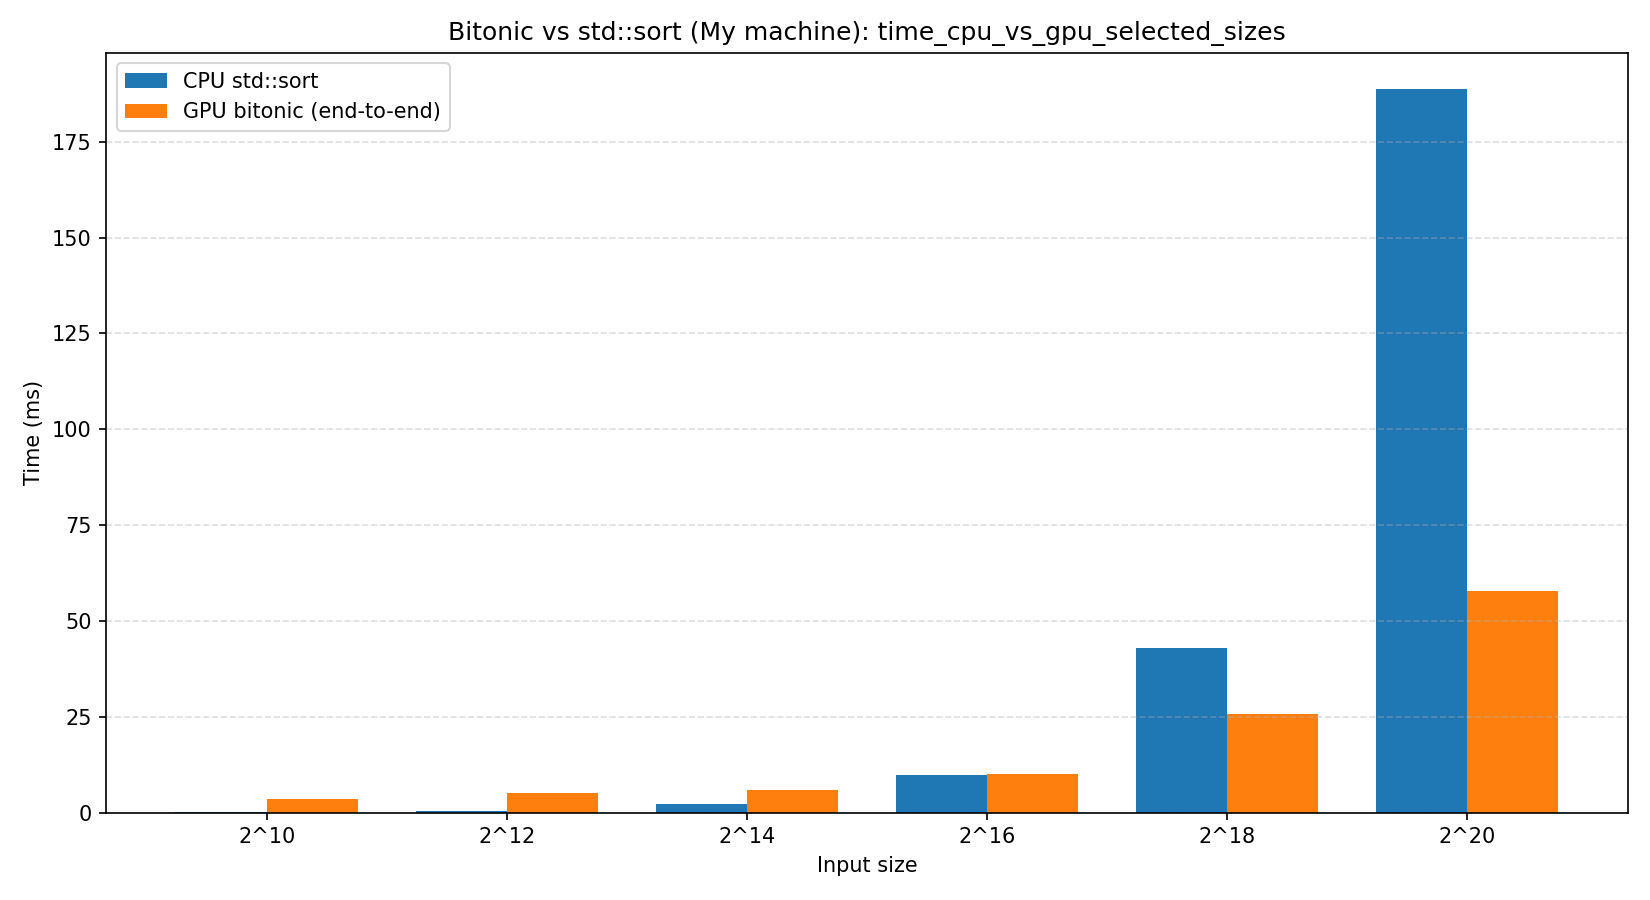
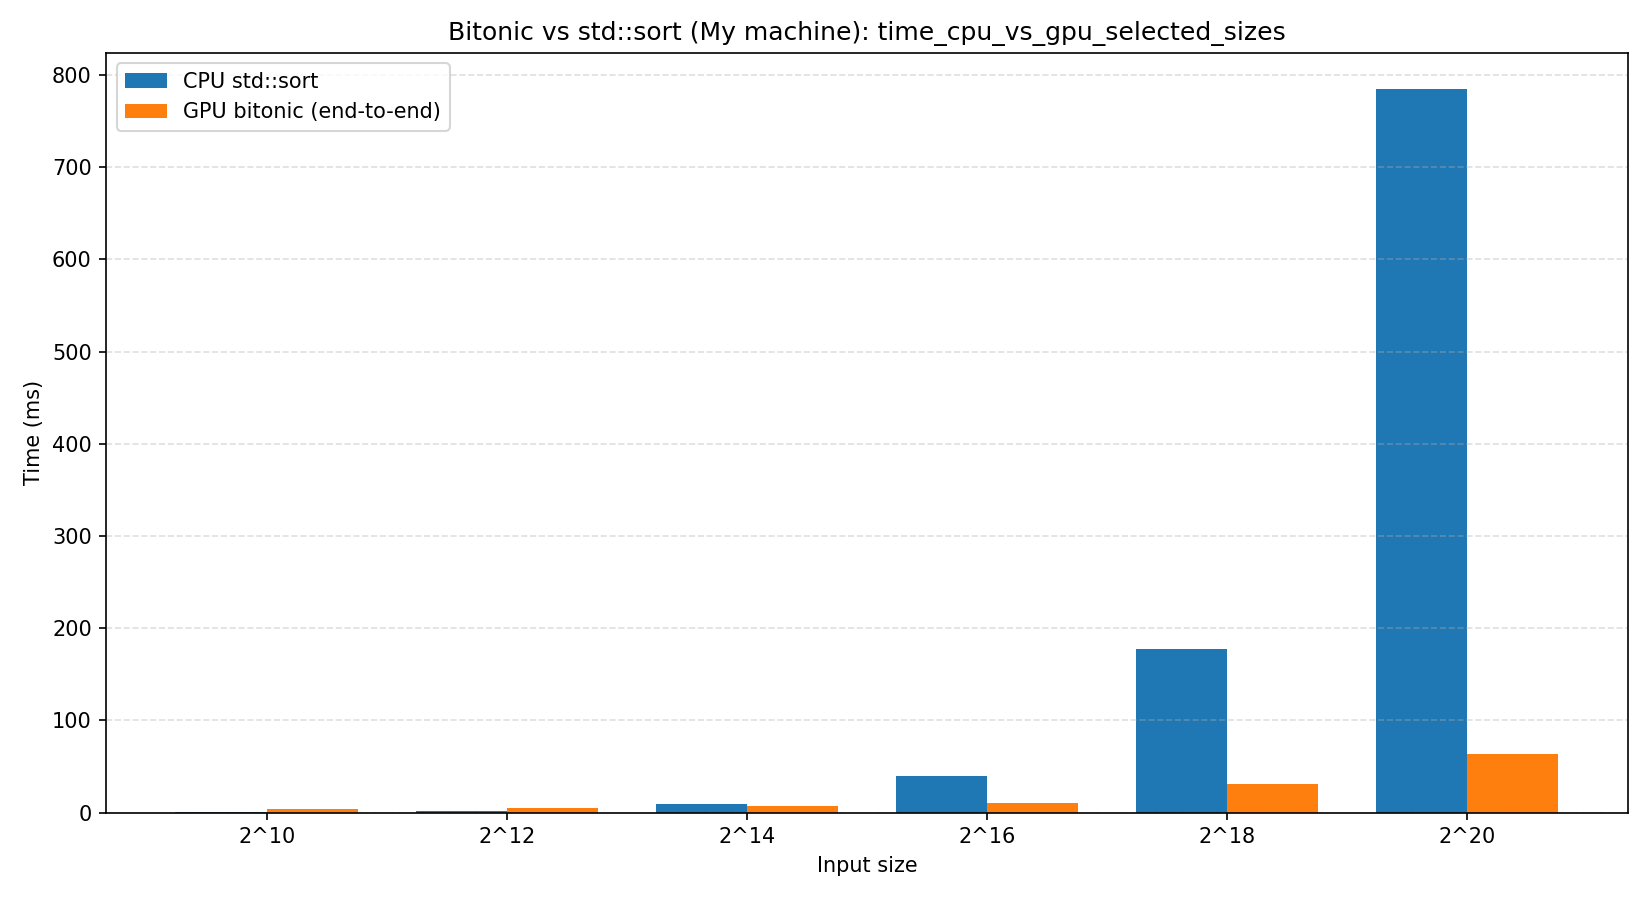
feat: add bitonic CPU vs GPU comparison pipeline

diff --git a/bench/run_bench.py b/bench/run_bench.py
@@ -15,6 +15,7 @@ REQUIRED_KEYS = {
     "warmup",
     "correct",
     "cpu_sort_ns",
+    "cpu_bitonic_ns",
     "gpu_end_to_end_ns",
     "gpu_kernel_ns",
     "gpu_h2d_ns",
@@ -26,16 +27,20 @@ REQUIRED_KEYS = {
 class AggregatedMetrics:
     size: int
     samples: int
-    cpu_mean_ns: float
-    cpu_median_ns: float
+    cpu_std_mean_ns: float
+    cpu_std_median_ns: float
+    cpu_bitonic_mean_ns: float
+    cpu_bitonic_median_ns: float
     gpu_e2e_mean_ns: float
     gpu_e2e_median_ns: float
     gpu_kernel_mean_ns: float
     gpu_kernel_median_ns: float
     gpu_h2d_mean_ns: float
     gpu_d2h_mean_ns: float
-    speedup_e2e: float
-    speedup_kernel: float
+    speedup_std_e2e: float
+    speedup_std_kernel: float
+    speedup_bitonic_e2e: float
+    speedup_bitonic_kernel: float
 
 
 def parse_args() -> argparse.Namespace:
@@ -156,13 +161,15 @@ def aggregate_records(records: list[dict]) -> list[AggregatedMetrics]:
     for size in sorted(grouped):
         bucket = grouped[size]
 
-        cpu = [float(r["cpu_sort_ns"]) for r in bucket]
+        cpu_std = [float(r["cpu_sort_ns"]) for r in bucket]
+        cpu_bitonic = [float(r["cpu_bitonic_ns"]) for r in bucket]
         gpu_e2e = [float(r["gpu_end_to_end_ns"]) for r in bucket]
         gpu_kernel = [float(r["gpu_kernel_ns"]) for r in bucket]
         gpu_h2d = [float(r["gpu_h2d_ns"]) for r in bucket]
         gpu_d2h = [float(r["gpu_d2h_ns"]) for r in bucket]
 
-        cpu_mean = statistics.fmean(cpu)
+        cpu_std_mean = statistics.fmean(cpu_std)
+        cpu_bitonic_mean = statistics.fmean(cpu_bitonic)
         gpu_e2e_mean = statistics.fmean(gpu_e2e)
         gpu_kernel_mean = statistics.fmean(gpu_kernel)
 
@@ -173,16 +180,20 @@ def aggregate_records(records: list[dict]) -> list[AggregatedMetrics]:
             AggregatedMetrics(
                 size=size,
                 samples=len(bucket),
-                cpu_mean_ns=cpu_mean,
-                cpu_median_ns=float(statistics.median(cpu)),
+                cpu_std_mean_ns=cpu_std_mean,
+                cpu_std_median_ns=float(statistics.median(cpu_std)),
+                cpu_bitonic_mean_ns=cpu_bitonic_mean,
+                cpu_bitonic_median_ns=float(statistics.median(cpu_bitonic)),
                 gpu_e2e_mean_ns=gpu_e2e_mean,
                 gpu_e2e_median_ns=float(statistics.median(gpu_e2e)),
                 gpu_kernel_mean_ns=gpu_kernel_mean,
                 gpu_kernel_median_ns=float(statistics.median(gpu_kernel)),
                 gpu_h2d_mean_ns=statistics.fmean(gpu_h2d),
                 gpu_d2h_mean_ns=statistics.fmean(gpu_d2h),
-                speedup_e2e=cpu_mean / gpu_e2e_mean,
-                speedup_kernel=cpu_mean / gpu_kernel_mean,
+                speedup_std_e2e=cpu_std_mean / gpu_e2e_mean,
+                speedup_std_kernel=cpu_std_mean / gpu_kernel_mean,
+                speedup_bitonic_e2e=cpu_bitonic_mean / gpu_e2e_mean,
+                speedup_bitonic_kernel=cpu_bitonic_mean / gpu_kernel_mean,
             )
         )
 
@@ -201,6 +212,10 @@ def write_summary_csv(path: pathlib.Path, rows: list[AggregatedMetrics]) -> None
                 "samples",
                 "cpu_mean_ns",
                 "cpu_median_ns",
+                "cpu_std_mean_ns",
+                "cpu_std_median_ns",
+                "cpu_bitonic_mean_ns",
+                "cpu_bitonic_median_ns",
                 "gpu_e2e_mean_ns",
                 "gpu_e2e_median_ns",
                 "gpu_kernel_mean_ns",
@@ -209,6 +224,10 @@ def write_summary_csv(path: pathlib.Path, rows: list[AggregatedMetrics]) -> None
                 "gpu_d2h_mean_ns",
                 "speedup_e2e",
                 "speedup_kernel",
+                "speedup_std_e2e",
+                "speedup_std_kernel",
+                "speedup_bitonic_e2e",
+                "speedup_bitonic_kernel",
             ]
         )
         for row in rows:
@@ -216,16 +235,24 @@ def write_summary_csv(path: pathlib.Path, rows: list[AggregatedMetrics]) -> None
                 [
                     row.size,
                     row.samples,
-                    f"{row.cpu_mean_ns:.3f}",
-                    f"{row.cpu_median_ns:.3f}",
+                    f"{row.cpu_std_mean_ns:.3f}",
+                    f"{row.cpu_std_median_ns:.3f}",
+                    f"{row.cpu_std_mean_ns:.3f}",
+                    f"{row.cpu_std_median_ns:.3f}",
+                    f"{row.cpu_bitonic_mean_ns:.3f}",
+                    f"{row.cpu_bitonic_median_ns:.3f}",
                     f"{row.gpu_e2e_mean_ns:.3f}",
                     f"{row.gpu_e2e_median_ns:.3f}",
                     f"{row.gpu_kernel_mean_ns:.3f}",
                     f"{row.gpu_kernel_median_ns:.3f}",
                     f"{row.gpu_h2d_mean_ns:.3f}",
                     f"{row.gpu_d2h_mean_ns:.3f}",
-                    f"{row.speedup_e2e:.6f}",
-                    f"{row.speedup_kernel:.6f}",
+                    f"{row.speedup_std_e2e:.6f}",
+                    f"{row.speedup_std_kernel:.6f}",
+                    f"{row.speedup_std_e2e:.6f}",
+                    f"{row.speedup_std_kernel:.6f}",
+                    f"{row.speedup_bitonic_e2e:.6f}",
+                    f"{row.speedup_bitonic_kernel:.6f}",
                 ]
             )
 

diff --git a/src/apps/bitonic_bench/main.cpp b/src/apps/bitonic_bench/main.cpp
@@ -1,3 +1,4 @@
+#include "bitonic_cpu/BitonicSort.hpp"
 #include "bitonic_gpu/BitonicSort.hpp"
 #include "opencl_core/KernelLoader.hpp"
 #include "opencl_core/OpenCLProbe.hpp"
@@ -43,7 +44,10 @@ struct RunMetrics
     int iteration = 0;
     bool warmup = false;
     bool correct = false;
+    bool cpu_bitonic_correct = false;
+    bool gpu_correct = false;
     std::uint64_t cpu_sort_ns = 0;
+    std::uint64_t cpu_bitonic_ns = 0;
     std::uint64_t gpu_end_to_end_ns = 0;
     std::uint64_t gpu_kernel_ns = 0;
     std::uint64_t gpu_h2d_ns = 0;
@@ -215,7 +219,12 @@ void write_jsonl_record(std::ofstream& out, const RunMetrics& record)
         << "\"iteration\":" << record.iteration << ","
         << "\"warmup\":" << (record.warmup ? "true" : "false") << ","
         << "\"correct\":" << (record.correct ? "true" : "false") << ","
+        << "\"cpu_bitonic_correct\":"
+        << (record.cpu_bitonic_correct ? "true" : "false") << ","
+        << "\"gpu_correct\":" << (record.gpu_correct ? "true" : "false")
+        << ","
         << "\"cpu_sort_ns\":" << record.cpu_sort_ns << ","
+        << "\"cpu_bitonic_ns\":" << record.cpu_bitonic_ns << ","
         << "\"gpu_end_to_end_ns\":" << record.gpu_end_to_end_ns << ","
         << "\"gpu_kernel_ns\":" << record.gpu_kernel_ns << ","
         << "\"gpu_h2d_ns\":" << record.gpu_h2d_ns << ","
@@ -283,14 +292,33 @@ int main(int argc, char** argv)
                                 cpu_end - cpu_start)
                                 .count());
 
+                    const auto cpu_bitonic_start =
+                        std::chrono::steady_clock::now();
+                    const std::vector<int> cpu_bitonic_sorted =
+                        bs::bitonic_sort_cpu(input);
+                    const auto cpu_bitonic_end = std::chrono::steady_clock::now();
+                    const std::uint64_t cpu_bitonic_ns =
+                        static_cast<std::uint64_t>(
+                            std::chrono::duration_cast<std::chrono::nanoseconds>(
+                                cpu_bitonic_end - cpu_bitonic_start)
+                                .count());
+
                     const bs::BitonicRunResult gpu_result =
                         bs::bitonic_sort_opencl_timed(runtime, program, input);
 
-                    const bool correct = (gpu_result.output == cpu_sorted);
+                    const bool cpu_bitonic_correct =
+                        (cpu_bitonic_sorted == cpu_sorted);
+                    const bool gpu_correct = (gpu_result.output == cpu_sorted);
+                    const bool correct = cpu_bitonic_correct && gpu_correct;
                     if (options.verify && !correct) {
                         std::cerr << "Verification failed"
                                   << " size=" << size << " seed=" << seed
-                                  << " run=" << (run_index + 1) << std::endl;
+                                  << " run=" << (run_index + 1)
+                                  << " cpu_bitonic_correct="
+                                  << (cpu_bitonic_correct ? "true" : "false")
+                                  << " gpu_correct="
+                                  << (gpu_correct ? "true" : "false")
+                                  << std::endl;
                         return EXIT_FAILURE;
                     }
 
@@ -301,7 +329,10 @@ int main(int argc, char** argv)
                         .iteration = run_index + 1,
                         .warmup = warmup,
                         .correct = correct,
+                        .cpu_bitonic_correct = cpu_bitonic_correct,
+                        .gpu_correct = gpu_correct,
                         .cpu_sort_ns = cpu_sort_ns,
+                        .cpu_bitonic_ns = cpu_bitonic_ns,
                         .gpu_end_to_end_ns =
                             gpu_result.timing.gpu_end_to_end_ns,
                         .gpu_kernel_ns = gpu_result.timing.gpu_kernel_ns,

diff --git a/bench/plot_bench.py b/bench/plot_bench.py
@@ -9,12 +9,15 @@ import sys
 REQUIRED_COLUMNS = {
     "size",
     "cpu_mean_ns",
+    "cpu_bitonic_mean_ns",
     "gpu_e2e_mean_ns",
     "gpu_kernel_mean_ns",
     "gpu_h2d_mean_ns",
     "gpu_d2h_mean_ns",
     "speedup_e2e",
     "speedup_kernel",
+    "speedup_bitonic_e2e",
+    "speedup_bitonic_kernel",
 }
 SELECTED_EXPONENTS = [10, 12, 14, 16, 18, 20]
 
@@ -58,12 +61,15 @@ def load_summary(path: pathlib.Path) -> list[dict]:
                 {
                     "size": int(row["size"]),
                     "cpu_mean_ns": float(row["cpu_mean_ns"]),
+                    "cpu_bitonic_mean_ns": float(row["cpu_bitonic_mean_ns"]),
                     "gpu_e2e_mean_ns": float(row["gpu_e2e_mean_ns"]),
                     "gpu_kernel_mean_ns": float(row["gpu_kernel_mean_ns"]),
                     "gpu_h2d_mean_ns": float(row["gpu_h2d_mean_ns"]),
                     "gpu_d2h_mean_ns": float(row["gpu_d2h_mean_ns"]),
                     "speedup_e2e": float(row["speedup_e2e"]),
                     "speedup_kernel": float(row["speedup_kernel"]),
+                    "speedup_bitonic_e2e": float(row["speedup_bitonic_e2e"]),
+                    "speedup_bitonic_kernel": float(row["speedup_bitonic_kernel"]),
                 }
             )
 
@@ -216,6 +222,54 @@ def make_selected_time_bar_plot(
     plt.close(fig)
 
 
+def make_selected_time_bar_plot_bitonic(
+    rows: list[dict], out_path: pathlib.Path, title_prefix: str
+) -> None:
+    import matplotlib.pyplot as plt
+
+    selected_sizes = {1 << exponent for exponent in SELECTED_EXPONENTS}
+    selected_rows = [row for row in rows if row["size"] in selected_sizes]
+    if not selected_rows:
+        raise RuntimeError(
+            "No rows for requested sizes (2^10..2^20) in summary CSV"
+        )
+
+    selected_rows.sort(key=lambda row: row["size"])
+    sizes = [row["size"] for row in selected_rows]
+    labels = size_labels(sizes)
+
+    cpu_bitonic_ms = ns_to_ms([row["cpu_bitonic_mean_ns"] for row in selected_rows])
+    gpu_ms = ns_to_ms([row["gpu_e2e_mean_ns"] for row in selected_rows])
+
+    x = list(range(len(sizes)))
+    width = 0.38
+
+    fig, ax = plt.subplots(figsize=(11, 6))
+    ax.bar(
+        [value - width / 2 for value in x],
+        cpu_bitonic_ms,
+        width,
+        label="CPU bitonic (mean)",
+    )
+    ax.bar(
+        [value + width / 2 for value in x],
+        gpu_ms,
+        width,
+        label="GPU bitonic (end-to-end)",
+    )
+
+    ax.set_xticks(x)
+    ax.set_xticklabels(labels)
+    ax.set_xlabel("Input size")
+    ax.set_ylabel("Time (ms)")
+    ax.set_title(f"{title_prefix}: time_bitonic_cpu_vs_gpu_selected_sizes")
+    ax.grid(True, axis="y", linestyle="--", alpha=0.4)
+    ax.legend()
+    fig.tight_layout()
+    fig.savefig(out_path, dpi=150)
+    plt.close(fig)
+
+
 def main() -> int:
     args = parse_args()
     summary_path = pathlib.Path(args.summary_csv)
@@ -235,17 +289,22 @@ def main() -> int:
     speedup_path = out_dir / "speedup_vs_n.png"
     breakdown_path = out_dir / "cpu_gpu_breakdown.png"
     selected_time_bar_path = out_dir / "time_cpu_vs_gpu_bar.png"
+    selected_bitonic_time_bar_path = out_dir / "time_bitonic_cpu_vs_gpu_bar.png"
 
     make_time_plot(rows, time_path, args.title_prefix)
     make_speedup_plot(rows, speedup_path, args.title_prefix)
     make_breakdown_plot(rows, breakdown_path, args.title_prefix)
     make_selected_time_bar_plot(rows, selected_time_bar_path, args.title_prefix)
+    make_selected_time_bar_plot_bitonic(
+        rows, selected_bitonic_time_bar_path, args.title_prefix
+    )
 
     print(f"Summary CSV: {summary_path}")
     print(f"Generated: {time_path}")
     print(f"Generated: {speedup_path}")
     print(f"Generated: {breakdown_path}")
     print(f"Generated: {selected_time_bar_path}")
+    print(f"Generated: {selected_bitonic_time_bar_path}")
     return 0
 
 

diff --git a/README.md b/README.md
@@ -4,7 +4,9 @@ OpenCL-based Bitonic Sort implementation with:
 - C++ host code (`CL/opencl.hpp`)
 - OpenCL kernel execution on GPU
 - deterministic e2e validation
-- benchmark and plotting pipeline for `std::sort` vs bitonic GPU sort
+- benchmark and plotting pipeline for:
+  - `std::sort` vs bitonic GPU sort
+  - bitonic CPU sort vs bitonic GPU sort
 
 ## Build
 
@@ -71,21 +73,36 @@ Benchmark command:
 ```bash
 python3 bench/run_bench.py \
   --binary build/src/apps/bitonic_bench/bitonic_bench \
-  --min-exp 5 --max-exp 20 \
+  --min-exp 10 --max-exp 20 \
   --seeds 3 --warmup 3 --iters 10
 ```
 
-Summary table (mean timings, GPU end-to-end):
+Summary table: `std::sort` vs bitonic GPU (mean timings, GPU end-to-end):
 
 | N (2^k) | Size | CPU mean, ms | GPU e2e mean, ms | Speedup (CPU/GPU e2e) |
 | --- | ---: | ---: | ---: | ---: |
-| 2^10 | 1,024 | 0.065 | 3.640 | 0.018 |
-| 2^12 | 4,096 | 0.480 | 5.059 | 0.095 |
-| 2^14 | 16,384 | 2.191 | 5.804 | 0.378 |
-| 2^16 | 65,536 | 9.781 | 9.979 | 0.980 |
-| 2^18 | 262,144 | 42.985 | 25.659 | 1.675 |
-| 2^20 | 1,048,576 | 188.727 | 57.765 | 3.267 |
+| 2^10 | 1,024 | 0.412 | 3.494 | 0.118 |
+| 2^12 | 4,096 | 2.007 | 4.750 | 0.423 |
+| 2^14 | 16,384 | 9.035 | 6.643 | 1.360 |
+| 2^16 | 65,536 | 39.794 | 10.364 | 3.840 |
+| 2^18 | 262,144 | 177.244 | 30.606 | 5.791 |
+| 2^20 | 1,048,576 | 784.746 | 63.534 | 12.352 |
 
 CPU vs GPU time bar chart for sizes `2^10, 2^12, 2^14, 2^16, 2^18, 2^20`:
 
 ![CPU vs GPU time bar chart](bench/my_results/time_cpu_vs_gpu_bar.png)
+
+Summary table: bitonic CPU vs bitonic GPU (mean timings, GPU end-to-end):
+
+| N (2^k) | Size | CPU bitonic mean, ms | GPU e2e mean, ms | Speedup (CPU bitonic/GPU e2e) |
+| --- | ---: | ---: | ---: | ---: |
+| 2^10 | 1,024 | 0.802 | 3.494 | 0.230 |
+| 2^12 | 4,096 | 4.564 | 4.750 | 0.961 |
+| 2^14 | 16,384 | 22.732 | 6.643 | 3.422 |
+| 2^16 | 65,536 | 116.004 | 10.364 | 11.193 |
+| 2^18 | 262,144 | 574.805 | 30.606 | 18.781 |
+| 2^20 | 1,048,576 | 2781.800 | 63.534 | 43.784 |
+
+Bitonic CPU vs bitonic GPU time bar chart for sizes `2^10, 2^12, 2^14, 2^16, 2^18, 2^20`:
+
+![Bitonic CPU vs GPU time bar chart](bench/my_results/time_bitonic_cpu_vs_gpu_bar.png)

diff --git a/bench/README.md b/bench/README.md
@@ -3,6 +3,7 @@
 This directory contains scripts for reproducible comparison between:
 - GPU bitonic sort (`bitonic_bench`)
 - CPU `std::sort`
+- CPU bitonic sort (`bitonic_sort_cpu`)
 
 ## Prerequisites
 
@@ -51,6 +52,7 @@ Generated charts:
 - `speedup_vs_n.png`
 - `cpu_gpu_breakdown.png`
 - `time_cpu_vs_gpu_bar.png` (CPU/GPU time bars for `2^10..2^20`)
+- `time_bitonic_cpu_vs_gpu_bar.png` (CPU bitonic vs GPU bitonic time bars for `2^10..2^20`)
 
 ## Smoke example (fast local check)
 
